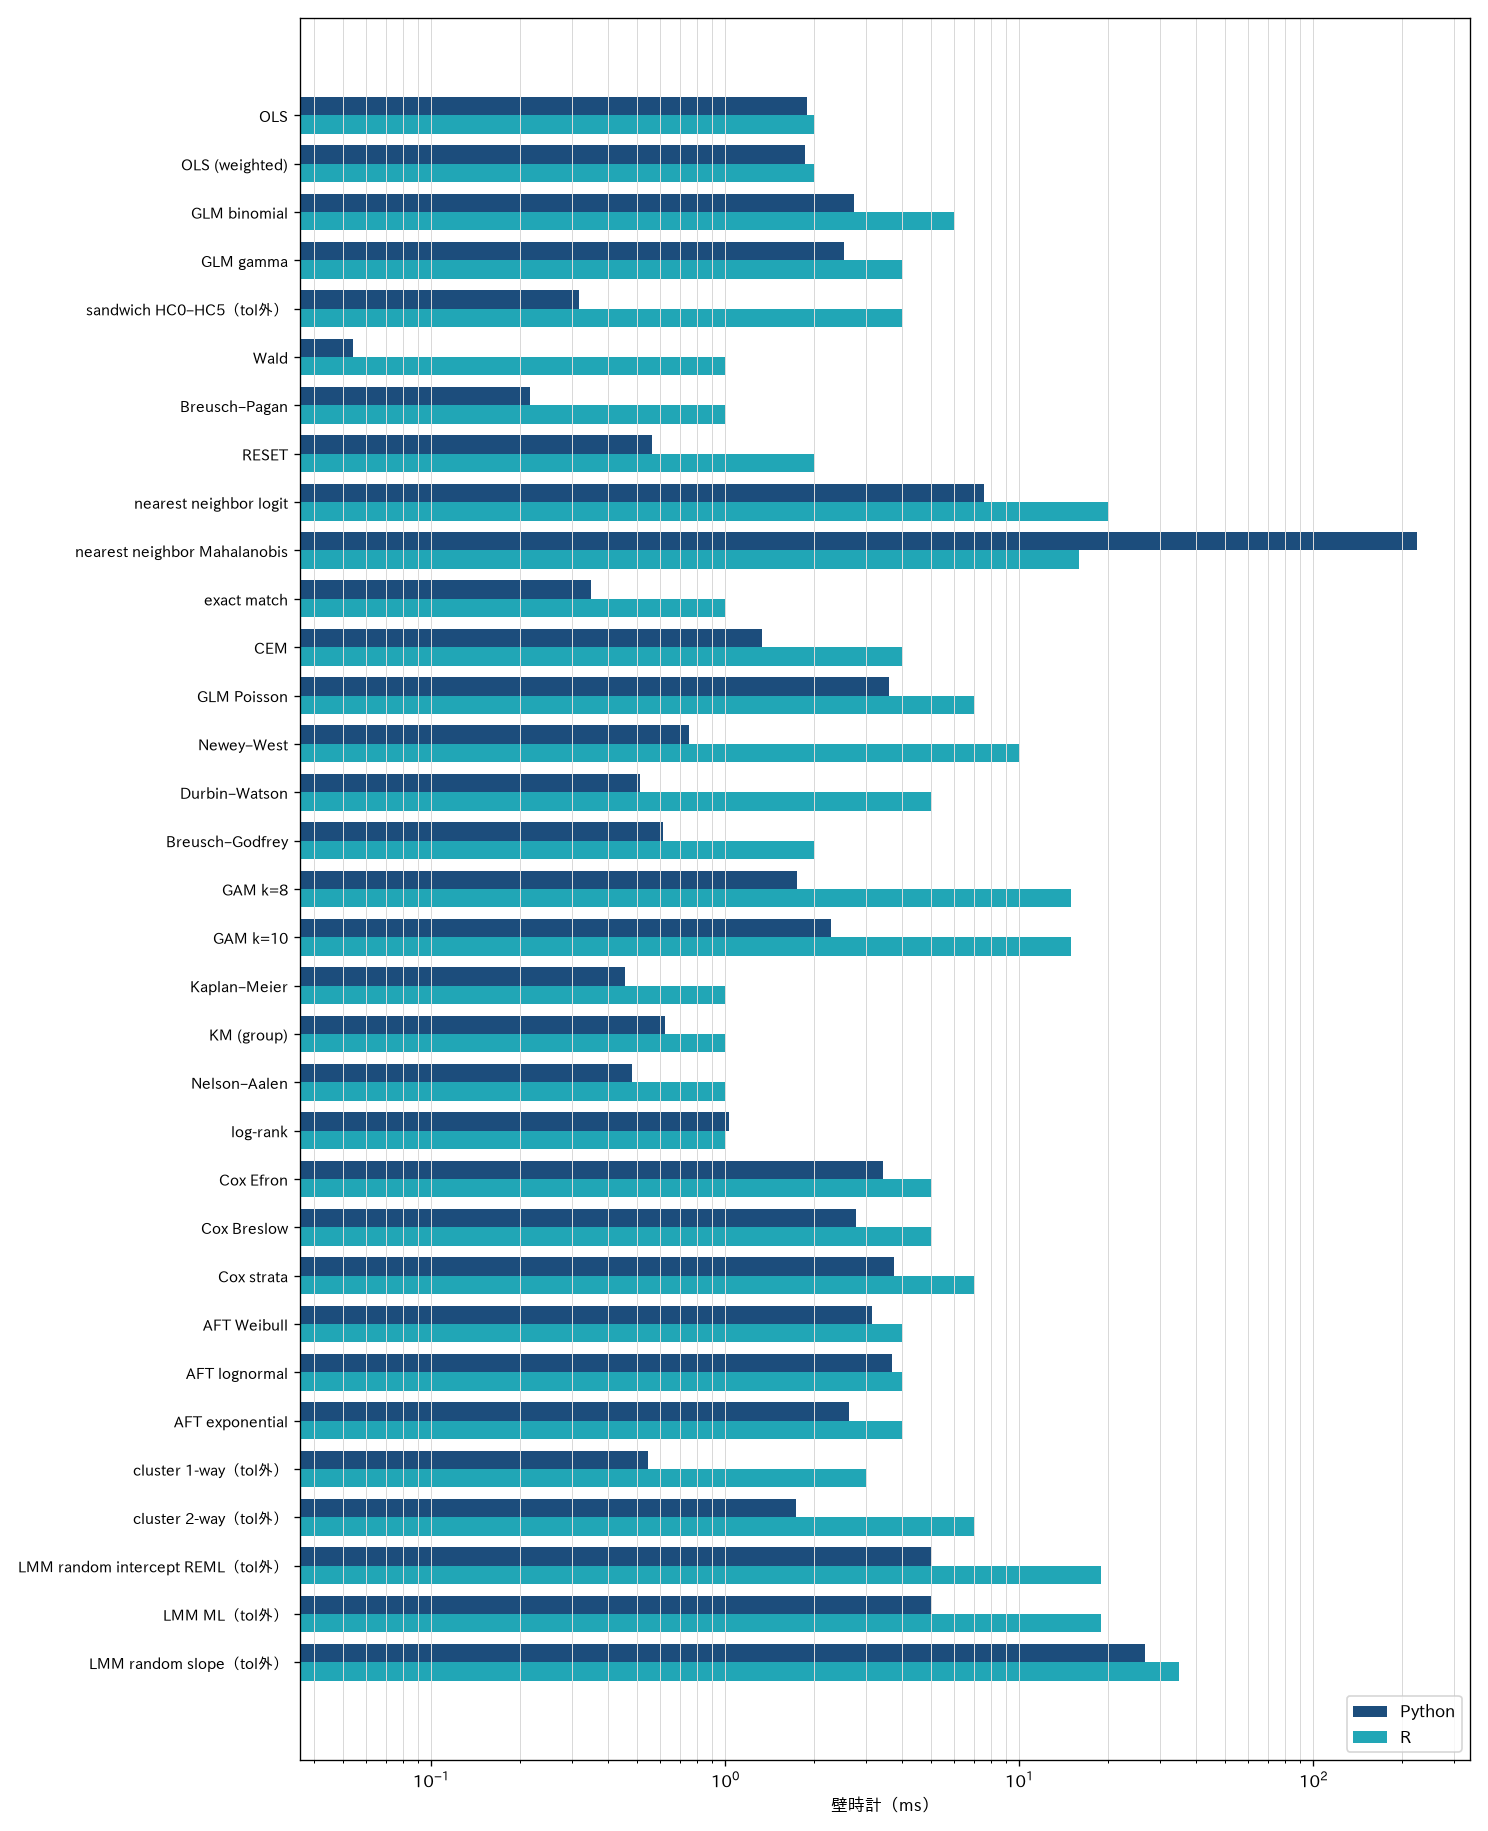
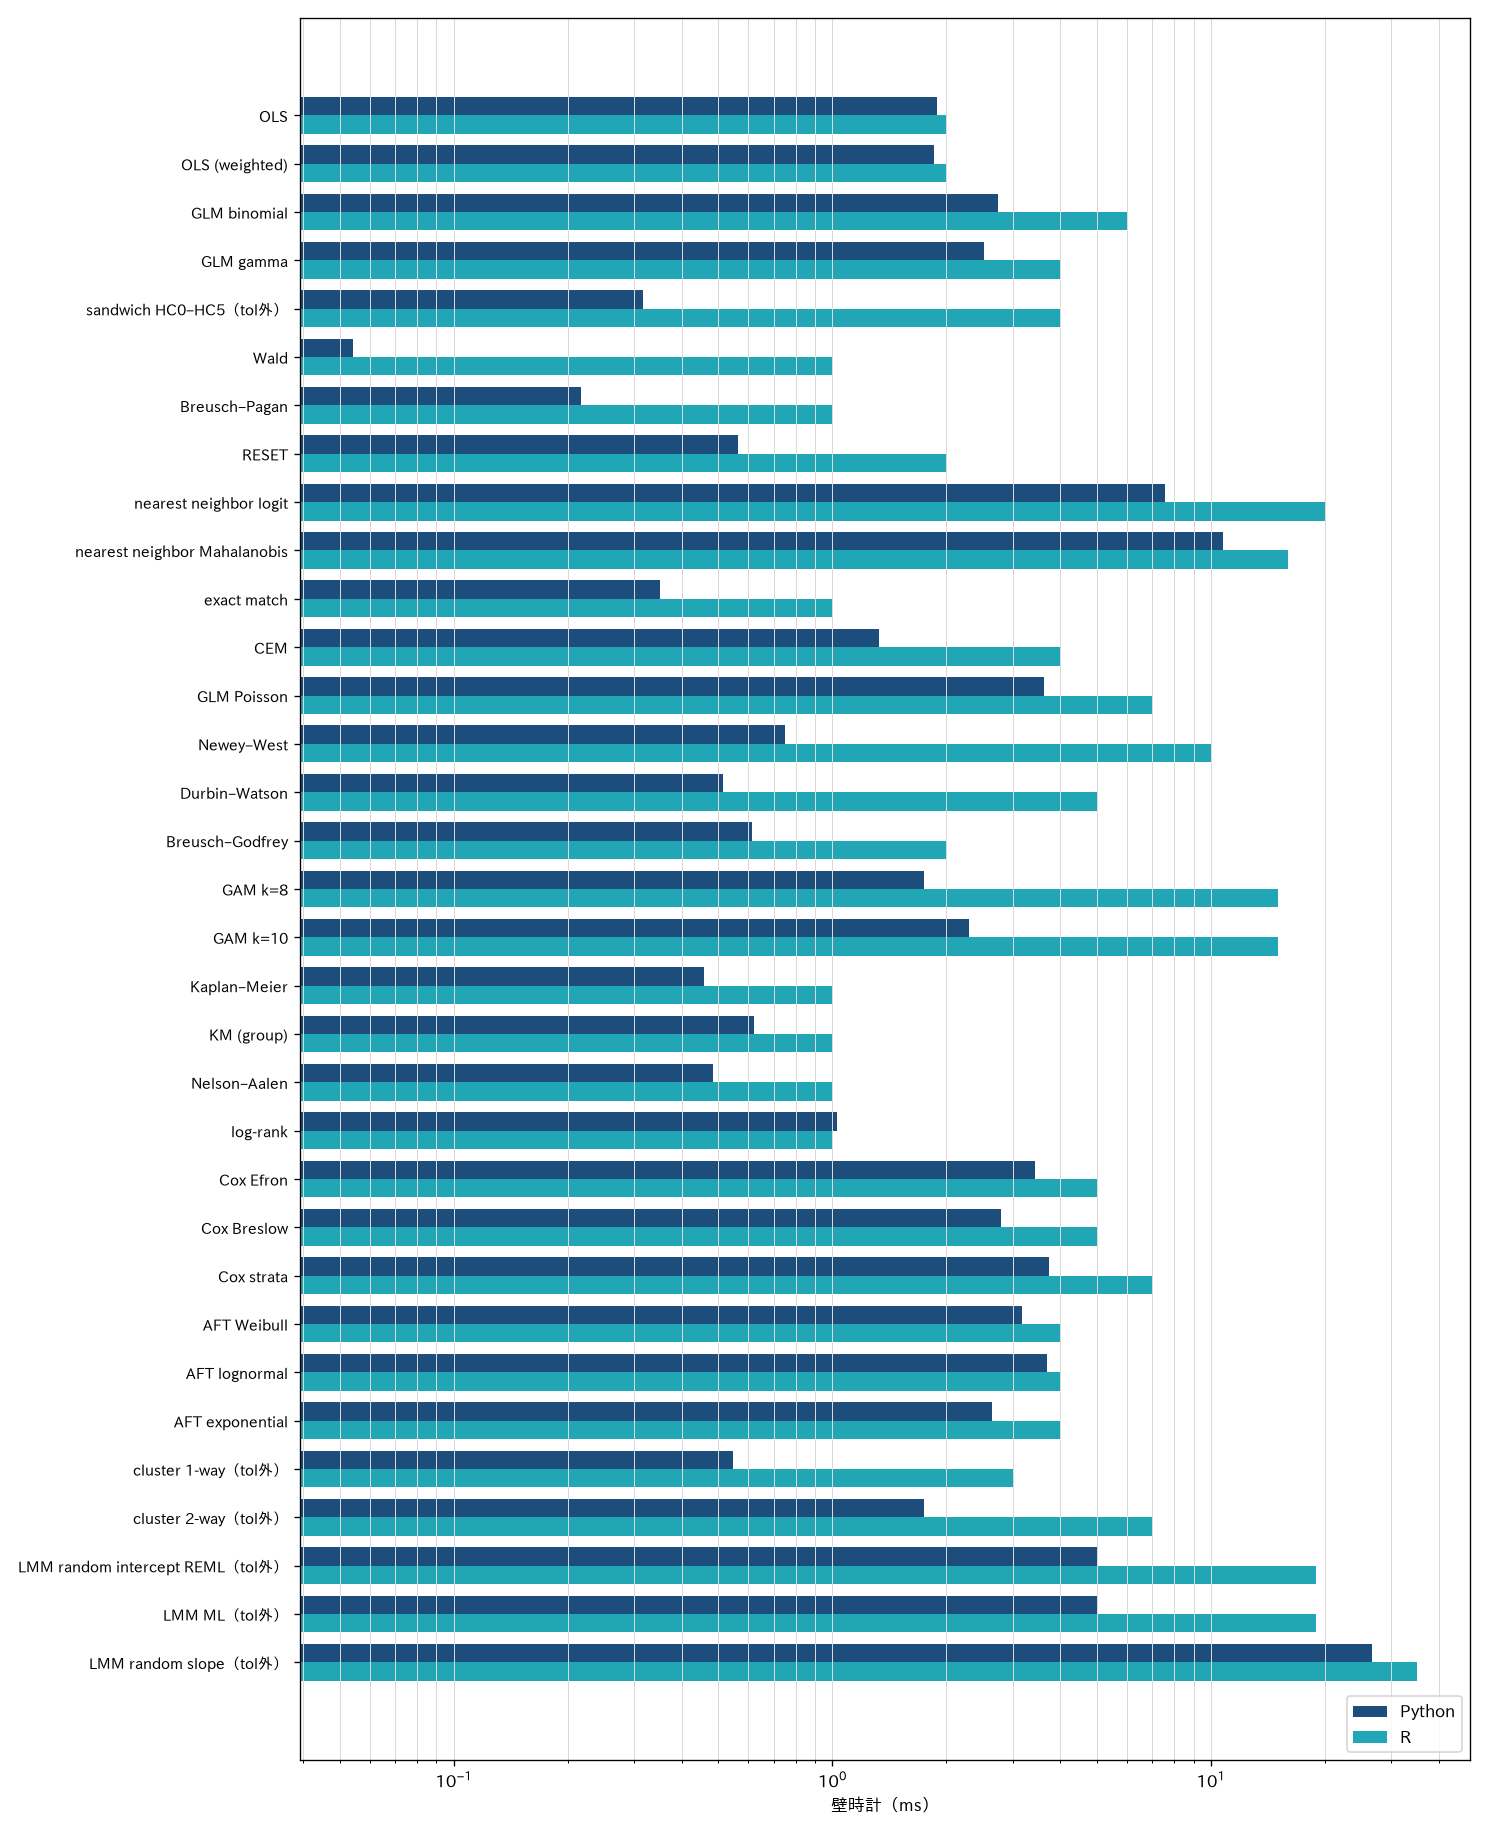
Speed up Mahalanobis nearest-neighbor matching.
The long-double sums stay sequential, and the squared-distance einsum keeps the same bits. Adult pairs are unchanged. The published Mahalanobis times are the new measurements.

diff --git a/src/statract/matching/__init__.py b/src/statract/matching/__init__.py
@@ -428,10 +428,16 @@ def _nearest_scan(treated, control, dist, ratio, replace, limit, exact):
 
 
 def _squared_euclidean(left: np.ndarray, right: np.ndarray) -> np.ndarray:
-    """``||left[i] - right[j]||^2``. Identical rows stay exactly zero."""
+    """``||left[i] - right[j]||^2``. Identical rows stay exactly zero.
+
+    The square is the einsum of the coordinate difference. A sequential sum
+    of those squares is a different double and can change a tie. Each tile
+    is about a million coordinate slots, so the temporary stays in cache.
+    A larger tile is the same bits and slower.
+    """
     n_c = right.shape[0]
     width = right.shape[1]
-    step = max(1, 8_000_000 // max(n_c * max(width, 1), 1))
+    step = max(1, 1_000_000 // max(n_c * max(width, 1), 1))
     out = np.empty((left.shape[0], n_c), dtype=np.float64)
     for start in range(0, left.shape[0], step):
         block = left[start : start + step]
@@ -1152,10 +1158,16 @@ def _pooled_sd(x: np.ndarray, treat: np.ndarray) -> np.ndarray:
 
 
 def _longdouble_sum(values: np.ndarray) -> np.longdouble:
-    total = np.longdouble(0)
-    for index in range(values.shape[0]):
-        total += values[index]
-    return total
+    """Sequential long-double sum, the order R's ``sum`` uses.
+
+    ``np.sum`` adds in pairs. That sum differs by an ulp once the column is
+    a few hundred rows, and the Mahalanobis factor then picks another control.
+    ``cumsum`` is a running total, so the last entry is the sequential sum.
+    """
+    flat = np.asarray(values, dtype=np.longdouble).reshape(-1)
+    if flat.size == 0:
+        return np.longdouble(0)
+    return np.cumsum(flat, dtype=np.longdouble)[-1]
 
 
 def _r_colmean(values: np.ndarray) -> float:
@@ -1169,9 +1181,7 @@ def _r_mean(values: np.ndarray) -> float:
     total = _longdouble_sum(values)
     tmp = total / n
     if np.isfinite(float(tmp)):
-        adjust = np.longdouble(0)
-        for index in range(n):
-            adjust += np.longdouble(values[index]) - tmp
+        adjust = _longdouble_sum(np.asarray(values, dtype=np.longdouble) - tmp)
         tmp = tmp + adjust / n
     return float(tmp)
 
@@ -1193,10 +1203,7 @@ def _r_scale(x: np.ndarray) -> np.ndarray:
     denom = max(1, n - 1)
     for column in range(width):
         values = centered[:, column]
-        total = np.longdouble(0)
-        for index in range(n):
-            value = values[index]
-            total += np.longdouble(value * value)
+        total = _longdouble_sum(values * values)
         scale[column] = np.sqrt(float(total) / denom)
     scale[scale == 0] = 1.0
     return centered / scale
@@ -1208,6 +1215,8 @@ def _pooled_cov(x: np.ndarray, treat: np.ndarray) -> np.ndarray:
     Group means are removed with ``mean``, then ``cov`` recenters and sums
     each product in long double. A float64 matrix product changes the
     null-space pivot of a singular factor design and the nearest control.
+    Each product is a long-double dot, which adds in the same order as the
+    sequential sum. A pairwise reduction does not.
     """
     n, width = x.shape
     centered = np.array(x, dtype=np.float64, copy=True)
@@ -1221,17 +1230,14 @@ def _pooled_cov(x: np.ndarray, treat: np.ndarray) -> np.ndarray:
     means = np.empty(width)
     for column in range(width):
         means[column] = _r_mean(centered[:, column])
+    dev = np.ascontiguousarray(centered, dtype=np.longdouble)
+    dev -= np.asarray(means, dtype=np.longdouble)
     gram = np.empty((width, width))
     n1 = n - 1
     for left in range(width):
+        column = dev[:, left]
         for right in range(left + 1):
-            total = np.longdouble(0)
-            left_mean = means[left]
-            right_mean = means[right]
-            for index in range(n):
-                total += (np.longdouble(centered[index, left]) - left_mean) * (
-                    np.longdouble(centered[index, right]) - right_mean
-                )
+            total = np.dot(column, dev[:, right])
             value = float(total / n1)
             gram[left, right] = value
             gram[right, left] = value

diff --git a/tests/test_stat_estimators.py b/tests/test_stat_estimators.py
@@ -259,6 +259,95 @@ def test_mahalanobis_pairs_match_matchit_455():
     assert np.array_equal(matched.weights, np.ones(24))
 
 
+def test_mahalanobis_scale_matches_sequential_longdouble():
+    """Scale and pooled covariance stay on R's sequential long-double sum.
+
+    ``np.sum`` adds in pairs. On this draw that sum is already a different
+    long double, which is enough to move a Mahalanobis pivot.
+    """
+    rng = np.random.default_rng(0)
+    n, width = 400, 4
+    values = rng.normal(size=(n, width))
+    values[:, 0] = rng.choice([0.0, 99999.0, 5013.0], size=n)
+    treat = np.zeros(n, dtype=bool)
+    treat[: n // 3] = True
+
+    def sequential(column: np.ndarray) -> np.longdouble:
+        total = np.longdouble(0)
+        for item in column:
+            total += item
+        return total
+
+    column = values[:, 1]
+    assert sequential(column) != np.sum(column.astype(np.longdouble), dtype=np.longdouble)
+
+    from statract.matching import _pooled_cov, _r_scale
+
+    center = np.empty(width)
+    for index in range(width):
+        center[index] = float(sequential(values[:, index]) / n)
+    centered = values - center
+    denom = n - 1
+    scale = np.empty(width)
+    for index in range(width):
+        squares = centered[:, index] * centered[:, index]
+        scale[index] = np.sqrt(float(sequential(squares)) / denom)
+    scale[scale == 0] = 1.0
+    assert np.array_equal(_r_scale(values), centered / scale)
+
+    shifted = np.array(centered / scale, dtype=np.float64, copy=True)
+    for flag in (True, False):
+        rows = np.flatnonzero(treat == flag)
+        for index in range(width):
+            part = shifted[rows, index]
+            total = sequential(part)
+            tmp = total / part.shape[0]
+            if np.isfinite(float(tmp)):
+                adjust = np.longdouble(0)
+                for item in part:
+                    adjust += np.longdouble(item) - tmp
+                tmp = tmp + adjust / part.shape[0]
+            shifted[rows, index] = part - float(tmp)
+    means = np.empty(width)
+    for index in range(width):
+        part = shifted[:, index]
+        total = sequential(part)
+        tmp = total / n
+        if np.isfinite(float(tmp)):
+            adjust = np.longdouble(0)
+            for item in part:
+                adjust += np.longdouble(item) - tmp
+            tmp = tmp + adjust / n
+        means[index] = float(tmp)
+    gram = np.empty((width, width))
+    for left in range(width):
+        for right in range(left + 1):
+            total = np.longdouble(0)
+            for row in range(n):
+                total += (np.longdouble(shifted[row, left]) - means[left]) * (
+                    np.longdouble(shifted[row, right]) - means[right]
+                )
+            value = float(total / (n - 1))
+            gram[left, right] = value
+            gram[right, left] = value
+    groups = int(np.unique(treat).size)
+    assert np.array_equal(_pooled_cov(centered / scale, treat), gram * (n - 1) / (n - groups))
+
+
+def test_squared_euclidean_tiles_match_one_row_einsum():
+    """Tiling the difference does not change the squared distance bits."""
+    rng = np.random.default_rng(0)
+    left = np.ascontiguousarray(rng.normal(size=(40, 21)))
+    right = np.ascontiguousarray(rng.normal(size=(4000, 21)))
+    from statract.matching import _squared_euclidean
+
+    got = _squared_euclidean(left, right)
+    for index in range(0, left.shape[0], 7):
+        diff = left[index : index + 1, None, :] - right[None, :, :]
+        ref = np.einsum("ijk,ijk->ij", diff, diff)
+        assert np.array_equal(got[index : index + 1], ref)
+
+
 def test_matrix_distance_rejects_subclass_matching():
     data = pl.DataFrame({"treat": [1, 1, 0, 0], "x1": [0.1, 0.2, 0.3, 0.4], "x2": [1.0, 0.0, 1.0, 0.0]})
     with pytest.raises(ValueError, match="subclass"):
